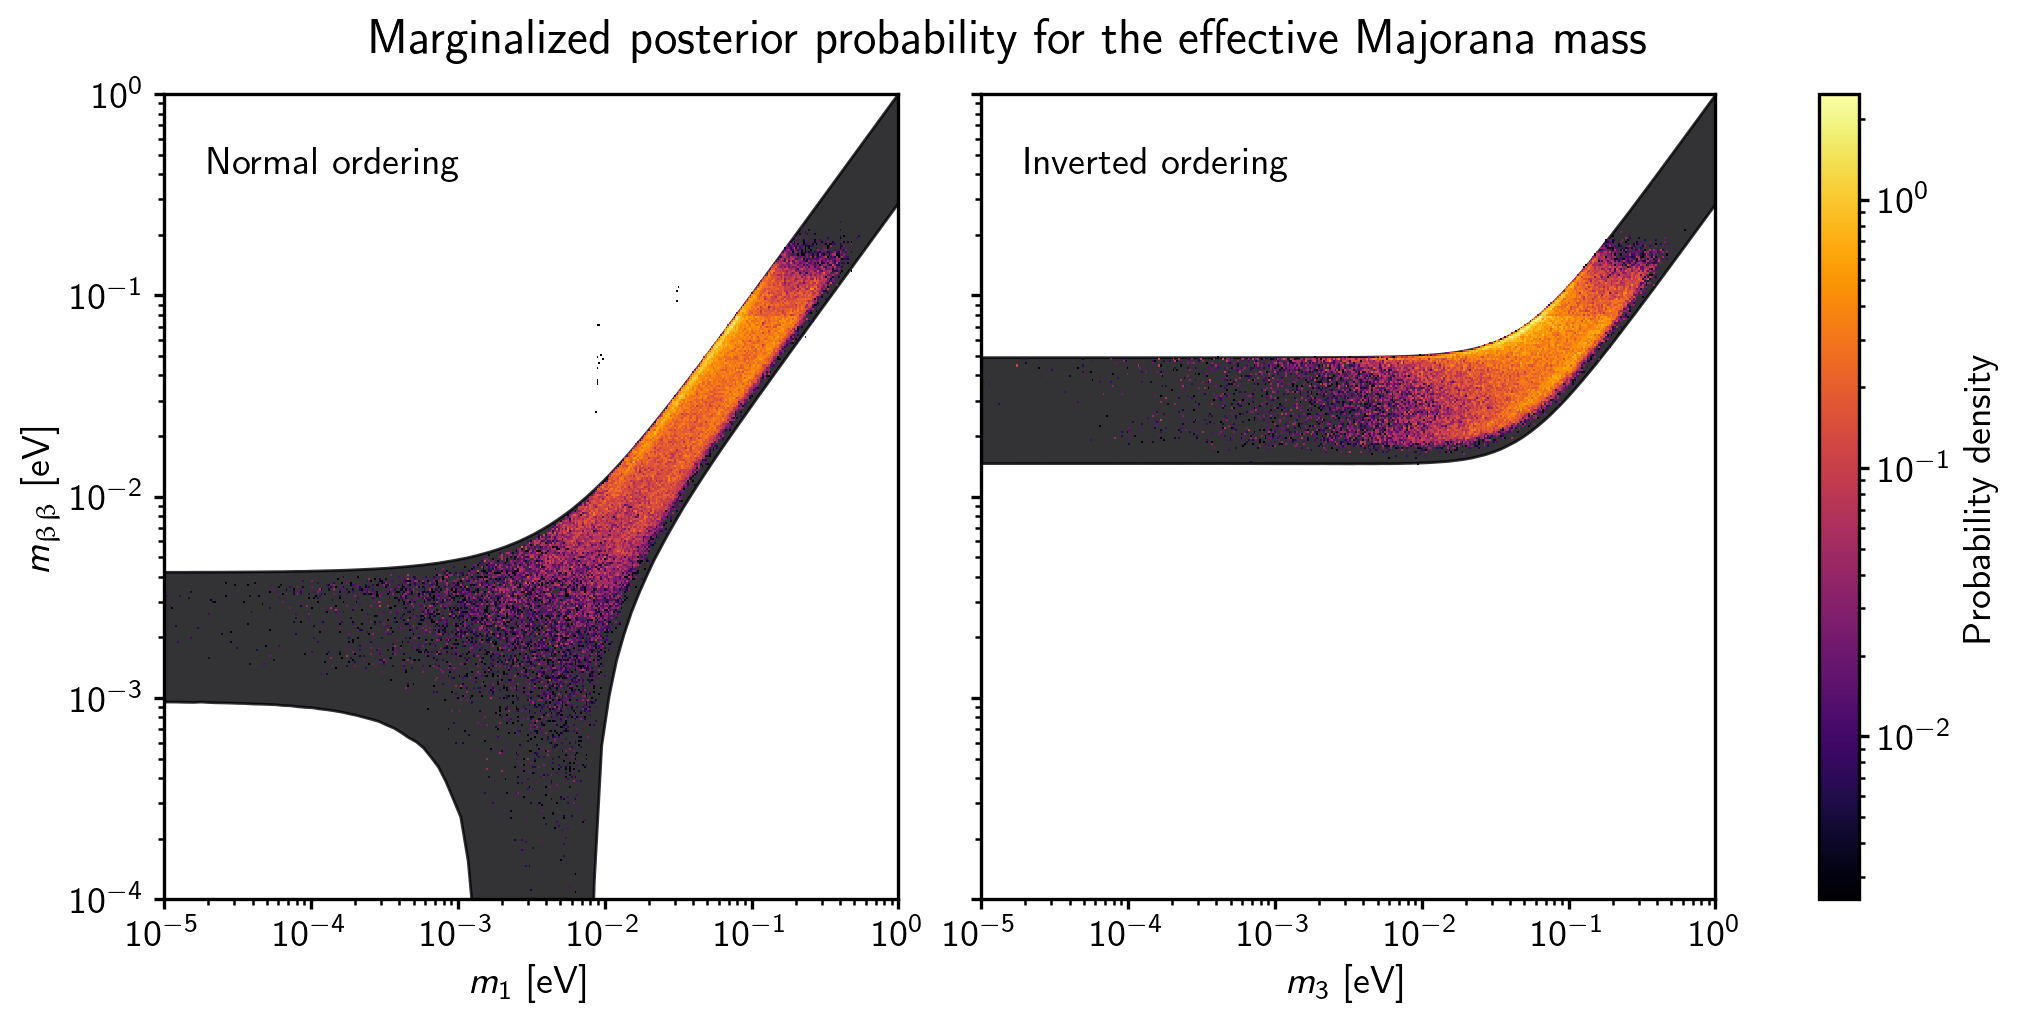
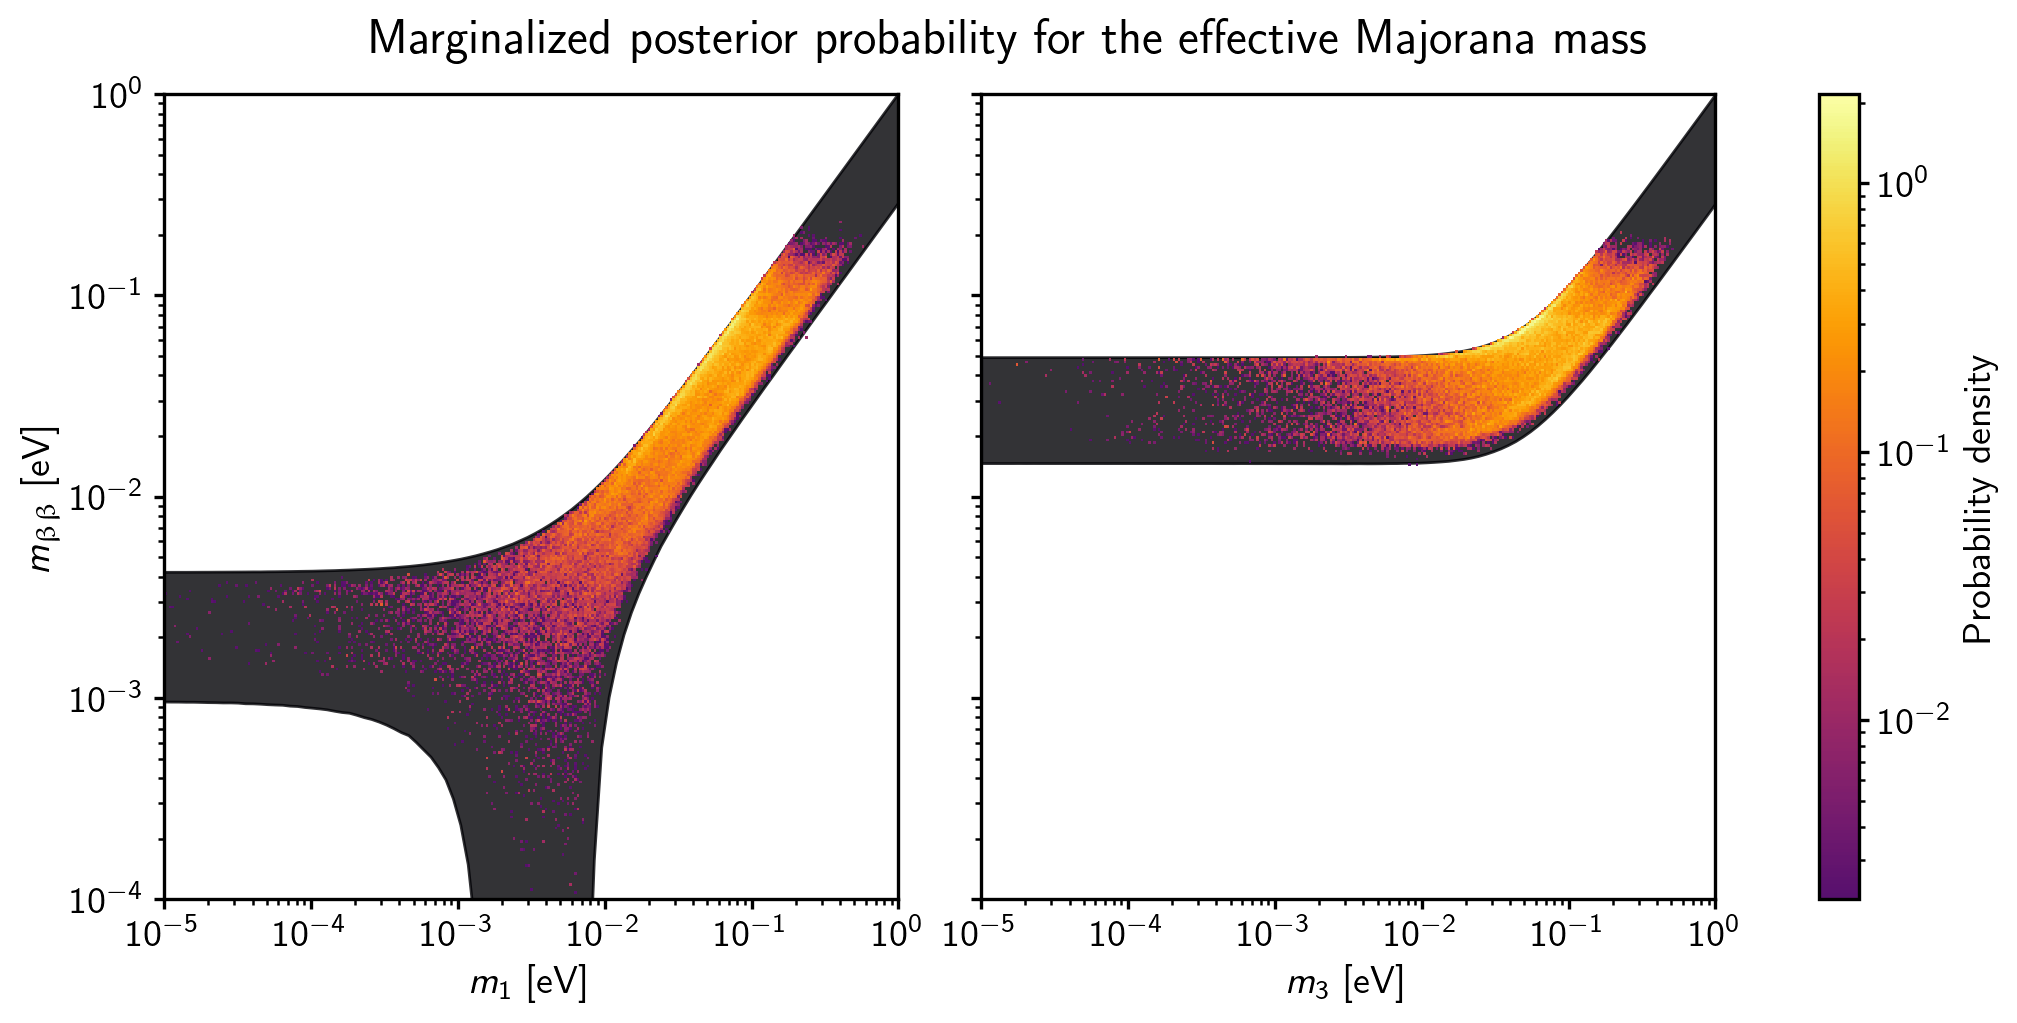
updated density plotting

diff --git a/src/lobster/plotting.py b/src/lobster/plotting.py
@@ -1,5 +1,5 @@
 import matplotlib.pyplot as plt
-from matplotlib.colors import LogNorm
+from matplotlib.colors import LogNorm,LinearSegmentedColormap
 from matplotlib import rcParams
 from matplotlib import style
 import numpy as np
@@ -68,12 +68,15 @@ def density(samples_no=None,samples_io=None,npoints=100_000,nbins=200,params=Non
     fig,axs = plt.subplots(1,2,figsize=(10,5),constrained_layout=True)
     if params is not None:
         colors = plt.get_cmap(cmap)
+        cmap_reduced = LinearSegmentedColormap.from_list('',colors(np.linspace(0.25,1,1000)))
         axs[0].fill_between(m_lightest_no,m_lower_no,m_upper_no,color=colors(0),alpha=0.8)
+        axs[0].fill_between(m_lightest_no[5:-5],1.5*m_upper_no[5:-5],0.7,color=axs[0].get_facecolor(),zorder=98)
         axs[1].fill_between(m_lightest_io,m_lower_io,m_upper_io,color=colors(0),alpha=0.8)
+        axs[1].fill_between(m_lightest_io[5:-5],1.5*m_upper_io[5:-5],0.7,color=axs[1].get_facecolor(),zorder=99)
     if samples_no is not None:
-        im = axs[0].pcolormesh(X,Y,h_no.T,cmap=cmap,norm=LogNorm(vmin=10**(np.log10(vmax)-3),vmax=vmax))
+        im = axs[0].pcolormesh(X,Y,h_no.T,cmap=cmap_reduced,norm=LogNorm(vmin=10**(np.log10(vmax)-3),vmax=vmax))
     if samples_io is not None:
-        im = axs[1].pcolormesh(X,Y,h_io.T,cmap=cmap,norm=LogNorm(vmin=10**(np.log10(vmax)-3),vmax=vmax))
+        im = axs[1].pcolormesh(X,Y,h_io.T,cmap=cmap_reduced,norm=LogNorm(vmin=10**(np.log10(vmax)-3),vmax=vmax))
     labels = ['Normal ordering','Inverted ordering']
     for i,ax in enumerate(axs):
         ax.text(2e-5,4e-1,labels[i])

diff --git a/README.md b/README.md
@@ -45,7 +45,7 @@ python run_mcmc.py -io
 Once both sample chains have been saved, the script to produce the lobster plot can be run with the paths to the saved sample chains as command line arguments. If the scripts were run as above, then the following should work to make the plot:
 
 ```bash
-python lobster_density.py samples_no_500000.npy samples_io_500000.npy
+python lobster_density.py samples_no_500000.npy samples_io_500000.npy -allowed
 ```
 
 This will produce a much lower quality version of the plot below. Increasing the number of walkers and iterations used by the MCMC will increase the plot quality.
